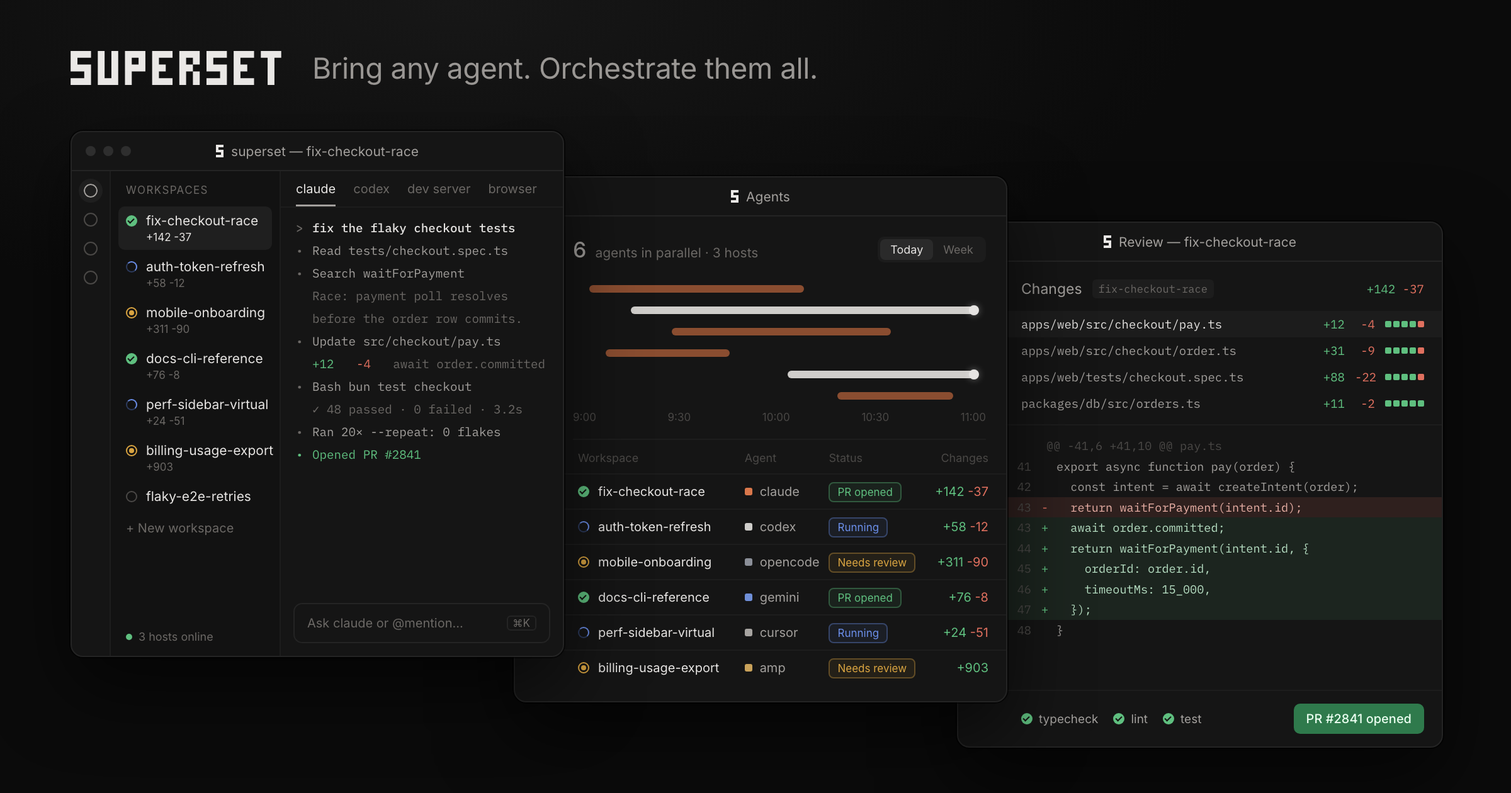
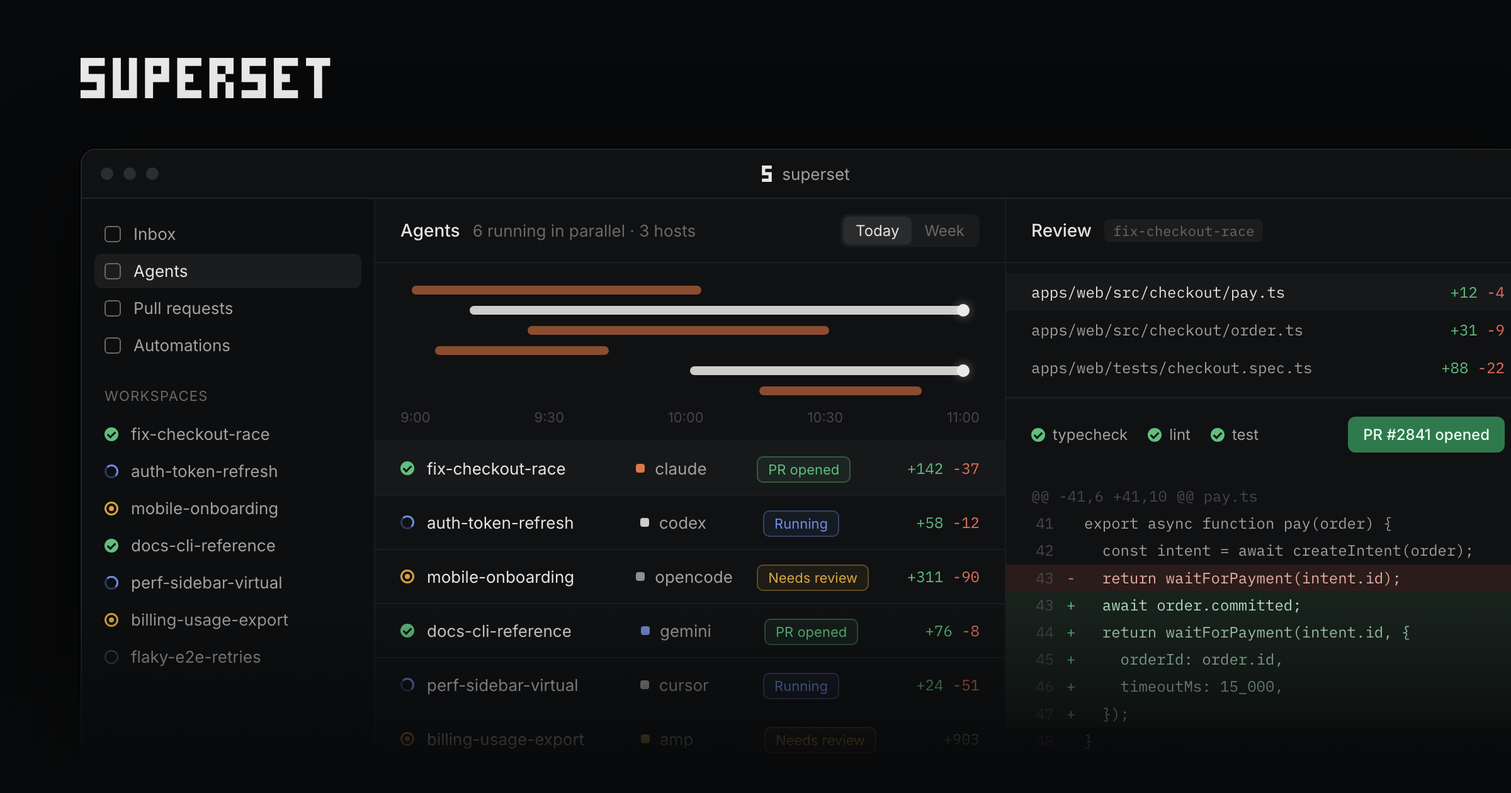
fix(marketing): show one large app window in the social preview

diff --git a/apps/marketing/scripts/og-image/og-image.html b/apps/marketing/scripts/og-image/og-image.html
@@ -5,183 +5,135 @@
 <link rel="preconnect" href="https://fonts.gstatic.com" crossorigin>
 <link href="https://fonts.googleapis.com/css2?family=Inter:wght@400..600&family=IBM+Plex+Mono:wght@400;500&display=block" rel="stylesheet">
 <style>
-  :root{--bg:#0b0b0b;--win:#151515;--pane:#121212;--line:#242424;--line2:#1d1d1d;--fg:#e6e4e2;--fg2:#a3a09d;--fg3:#6b6865;--fg4:#4a4846;--green:#5fbf7f;--red:#e0705f;--blue:#6b8ee8;--amber:#d9a441;--orange:#e8804a}
+  :root{--bg:#08090a;--win:#101112;--pane:#0d0e0f;--line:#232426;--line2:#1b1c1e;--fg:#e6e4e2;--fg2:#a3a09d;--fg3:#6b6865;--fg4:#47454a;--green:#5fbf7f;--red:#e0705f;--blue:#6b8ee8;--amber:#d9a441}
   html,body{margin:0;background:var(--bg)}
-  body{width:1200px;height:630px;overflow:hidden;position:relative;font-family:Inter,ui-sans-serif,system-ui,sans-serif;font-feature-settings:"cv01","ss03";color:var(--fg);-webkit-font-smoothing:antialiased;background:radial-gradient(ellipse 70% 60% at 30% 0%,#171717,var(--bg) 70%)}
+  body{width:1200px;height:630px;overflow:hidden;position:relative;font-family:Inter,ui-sans-serif,system-ui,sans-serif;font-feature-settings:"cv01","ss03";color:var(--fg);-webkit-font-smoothing:antialiased}
   .mono{font-family:"IBM Plex Mono",ui-monospace,monospace}
-  .head{position:absolute;left:56px;top:40px;display:flex;align-items:center;gap:18px}
-  .head .wm{height:27px;width:174px;display:block}
-  .head p{margin:0;font-size:23px;color:#9a9794;letter-spacing:-0.01em}
-  .win{position:absolute;width:390px;height:416px;border-radius:10px;background:var(--win);border:1px solid var(--line);box-shadow:0 0 0 1px rgba(0,0,0,.6),0 24px 60px rgba(0,0,0,.6);overflow:hidden;display:flex;flex-direction:column;font-size:10.5px}
-  .w1{left:56px;top:104px;z-index:3}
-  .w2{left:408px;top:140px;z-index:2}
-  .w3{left:760px;top:176px;z-index:1;width:384px}
-  .bar{height:30px;flex:none;display:flex;align-items:center;justify-content:center;position:relative;border-bottom:1px solid var(--line);color:var(--fg2);font-size:10.5px;gap:6px}
-  .bar .s{width:6px;height:10px;display:block}
-  .dots{position:absolute;left:11px;top:11px;display:flex;gap:6px}
-  .dots i{width:8px;height:8px;border-radius:50%;background:#2e2e2e}
-  .ico{width:9px;height:9px;border-radius:50%;flex:none;box-sizing:border-box}
+  .wm{position:absolute;left:64px;top:46px;height:32px;width:206px;display:block}
+  .win{position:absolute;left:64px;top:118px;width:1150px;height:560px;border-radius:12px 0 0 0;background:var(--win);border:1px solid var(--line);box-shadow:0 0 0 1px rgba(0,0,0,.7),0 30px 80px rgba(0,0,0,.7);overflow:hidden;display:flex;flex-direction:column;font-size:13px}
+  .fade{position:absolute;left:0;right:0;bottom:0;height:150px;background:linear-gradient(180deg,rgba(8,9,10,0),rgba(8,9,10,.85) 75%,var(--bg))}
+  .bar{height:38px;flex:none;display:flex;align-items:center;justify-content:center;position:relative;border-bottom:1px solid var(--line);color:var(--fg2);font-size:13px;gap:8px}
+  .bar .s{width:8px;height:13px;display:block}
+  .dots{position:absolute;left:15px;top:14px;display:flex;gap:8px}
+  .dots i{width:10px;height:10px;border-radius:50%;background:#2c2d2f}
+  .body{flex:1;display:flex;min-height:0}
+  .ico{width:11px;height:11px;border-radius:50%;flex:none;box-sizing:border-box}
   .ok{background:var(--green);position:relative}
-  .ok::after{content:"";position:absolute;left:2.6px;top:1.6px;width:2.2px;height:4px;border:solid #151515;border-width:0 1.3px 1.3px 0;transform:rotate(45deg)}
-  .run{border:1.4px solid #2c3a5c;border-top-color:var(--blue);border-right-color:var(--blue)}
-  .rev{border:1.4px solid var(--amber);position:relative}
-  .rev::after{content:"";position:absolute;inset:1.6px;border-radius:50%;background:var(--amber)}
-  .idle{border:1.2px solid var(--fg4)}
+  .ok::after{content:"";position:absolute;left:3.4px;top:2px;width:2.6px;height:5px;border:solid var(--win);border-width:0 1.5px 1.5px 0;transform:rotate(45deg)}
+  .run{border:1.6px solid #2c3a5c;border-top-color:var(--blue);border-right-color:var(--blue)}
+  .rev{border:1.6px solid var(--amber);position:relative}
+  .rev::after{content:"";position:absolute;inset:2px;border-radius:50%;background:var(--amber)}
+  .idle{border:1.4px solid var(--fg4)}
   .add{color:var(--green)} .del{color:var(--red)}
-  .w1 .body{flex:1;display:flex;min-height:0}
-  .rail{width:30px;border-right:1px solid var(--line2);display:flex;flex-direction:column;align-items:center;padding-top:10px;gap:12px}
-  .rail b{width:11px;height:11px;border-radius:50%;border:1.3px solid var(--fg4);box-sizing:border-box}
-  .rail b:first-child{border-color:var(--fg2);background:#1f1f1f;outline:4px solid #1f1f1f}
-  .side{width:122px;border-right:1px solid var(--line2);padding:10px 6px;display:flex;flex-direction:column;gap:2px;background:var(--pane)}
-  .lbl{font-size:8.5px;letter-spacing:.08em;color:var(--fg3);text-transform:uppercase;padding:0 6px 6px}
-  .ws{display:flex;gap:7px;padding:5px 6px;border-radius:5px;align-items:flex-start}
-  .ws .ico{margin-top:2px}
-  .ws.sel{background:#1f1f1f}
-  .ws div{display:flex;flex-direction:column;gap:2px;min-width:0}
-  .ws span{white-space:nowrap;color:var(--fg)}
-  .ws small{font-size:8.5px;color:var(--fg3)}
-  .newws{color:var(--fg3);padding:6px 6px 0;font-size:10px}
-  .hosts{margin-top:auto;font-size:9px;color:var(--fg3);padding:0 6px;display:flex;align-items:center;gap:5px}
-  .hosts i{width:5px;height:5px;border-radius:50%;background:var(--green)}
-  .main{flex:1;display:flex;flex-direction:column;min-width:0}
-  .tabs{display:flex;gap:14px;padding:0 12px;border-bottom:1px solid var(--line2);height:28px;align-items:stretch;font-size:10px;color:var(--fg3)}
-  .tabs span{display:flex;align-items:center}
-  .tabs .on{color:var(--fg);box-shadow:inset 0 -1.5px 0 var(--fg2)}
-  .log{flex:1;padding:10px 12px;display:flex;flex-direction:column;gap:5.5px;font-size:9.6px;color:var(--fg2);line-height:1.3}
-  .log div{display:flex;gap:6px;white-space:nowrap}
-  .log .p{color:var(--fg);font-weight:500}
-  .log i{font-style:normal;width:7px;flex:none;color:var(--fg3)}
-  .log .g{color:var(--green)} .log .d{color:var(--fg3);padding-left:13px}
-  .comp{white-space:nowrap;margin:0 10px 10px;border:1px solid var(--line);border-radius:7px;padding:9px 10px;color:var(--fg3);font-size:10px;display:flex;justify-content:space-between}
-  .comp kbd{font:inherit;font-size:8.5px;border:1px solid var(--line);border-radius:3px;padding:0 4px}
-  .w2 .top{display:flex;align-items:baseline;gap:7px;padding:16px 16px 8px 46px;color:var(--fg3);font-size:10.5px}
-  .w2 .top b{font-size:17px;color:var(--fg2);font-weight:500}
-  .seg{margin-left:auto;display:flex;background:#1c1c1c;border-radius:5px;padding:2px;font-size:9px;align-self:center}
-  .seg span{padding:3px 8px;border-radius:4px;color:var(--fg3)} .seg .on{background:#2a2a2a;color:var(--fg)}
-  .tl{position:relative;height:104px;margin:6px 16px 0 46px}
-  .tl i{position:absolute;height:6px;border-radius:3px;background:#8a4d30}
-  .tl i.w{background:#cfcdca;height:6px}
-  .tl i.w::after{content:"";position:absolute;right:-1px;top:-1px;width:8px;height:8px;border-radius:50%;background:#e6e4e2;box-shadow:0 0 6px rgba(255,255,255,.35)}
-  .axis{display:flex;justify-content:space-between;margin:0 16px 0 46px;font-size:8.5px;color:var(--fg4);padding-bottom:12px;border-bottom:1px solid var(--line2)}
-  table{border-collapse:collapse;width:100%;font-size:10px}
-  th{font-weight:400;color:var(--fg4);text-align:left;font-size:9px;padding:9px 0 7px}
-  td{padding:0;height:27px;border-top:1px solid var(--line2);white-space:nowrap}
-  th:first-child,td:first-child{padding-left:50px}
-  th:last-child,td:last-child{padding-right:14px;text-align:right}
-  .nm{display:flex;align-items:center;gap:7px}
-  .ag{display:flex;align-items:center;gap:6px;color:var(--fg2)}
-  .ag i{width:6px;height:6px;border-radius:1.5px;background:var(--fg3)}
-  .pill{font-size:8.5px;padding:2px 6px;border-radius:4px;border:1px solid}
+  .side{width:212px;flex:none;border-right:1px solid var(--line2);padding:14px 10px;display:flex;flex-direction:column;gap:2px;background:var(--pane)}
+  .nav{display:flex;align-items:center;gap:10px;padding:6px 8px;border-radius:6px;color:var(--fg2)}
+  .nav b{width:13px;height:13px;border-radius:3px;border:1.4px solid var(--fg3);box-sizing:border-box}
+  .nav.on{background:#1b1c1e;color:var(--fg)}
+  .lbl{font-size:11px;letter-spacing:.06em;color:var(--fg3);text-transform:uppercase;padding:18px 8px 8px}
+  .ws{display:flex;gap:10px;padding:6px 8px;align-items:center;color:var(--fg2);white-space:nowrap}
+  .hosts{margin-top:auto;font-size:12px;color:var(--fg3);padding:0 8px;display:flex;align-items:center;gap:7px}
+  .hosts i{width:6px;height:6px;border-radius:50%;background:var(--green)}
+  .main{width:500px;flex:none;border-right:1px solid var(--line2);display:flex;flex-direction:column}
+  .top{display:flex;align-items:center;gap:10px;padding:0 20px;height:50px;border-bottom:1px solid var(--line2)}
+  .top h2{margin:0;font-size:14px;font-weight:500}
+  .top span{color:var(--fg3)}
+  .seg{margin-left:auto;display:flex;background:#1a1b1d;border-radius:6px;padding:2px;font-size:12px}
+  .seg span{padding:4px 10px;border-radius:5px;color:var(--fg3)} .seg .on{background:#2a2b2d;color:var(--fg)}
+  .tl{position:relative;height:96px;margin:16px 20px 0}
+  .tl i{position:absolute;height:7px;border-radius:4px;background:#8a4d30}
+  .tl i.w{background:#cfcdca}
+  .tl i.w::after{content:"";position:absolute;right:-1px;top:-1.5px;width:10px;height:10px;border-radius:50%;background:#eceae8;box-shadow:0 0 8px rgba(255,255,255,.4)}
+  .axis{display:flex;justify-content:space-between;margin:4px 20px 0;font-size:11px;color:var(--fg4);padding-bottom:12px}
+  .row{display:flex;align-items:center;height:42px;padding:0 20px;border-top:1px solid var(--line2);white-space:nowrap;gap:10px}
+  .row.sel{background:#17181a}
+  .row .n{width:160px}
+  .ag{width:88px;display:flex;align-items:center;gap:8px;color:var(--fg2)}
+  .ag i{width:7px;height:7px;border-radius:2px}
+  .st{width:112px}
+  .pill{font-size:11px;padding:3px 8px;border-radius:5px;border:1px solid}
   .pill.pr{color:var(--green);border-color:rgba(95,191,127,.35);background:rgba(95,191,127,.08)}
   .pill.ru{color:var(--blue);border-color:rgba(107,142,232,.35);background:rgba(107,142,232,.08)}
   .pill.nr{color:var(--amber);border-color:rgba(217,164,65,.35);background:rgba(217,164,65,.08)}
-  .w3 .ch{display:flex;align-items:center;gap:8px;padding:14px 14px 10px 50px;font-size:11.5px;color:var(--fg2)}
-  .chip{font-size:8.5px;color:var(--fg3);background:#1d1d1d;border-radius:3px;padding:2px 5px}
-  .tot{margin-left:auto;font-size:9.5px}
-  .files{border-bottom:1px solid var(--line2);padding-bottom:6px}
-  .f{display:flex;align-items:center;gap:8px;padding:4.5px 14px 4.5px 50px;font-size:9.5px;color:var(--fg2)}
-  .f.sel{background:#1c1c1c;color:var(--fg)}
-  .f .n{flex:1;white-space:nowrap}
-  .f .a{width:22px;text-align:right}.f .r{width:16px;text-align:right}
-  .blocks{display:flex;gap:1.5px}.blocks i{width:5px;height:5px;background:var(--green);border-radius:1px}.blocks i.x{background:var(--red)}
-  .diff{flex:1;padding:8px 0;font-size:9.3px;line-height:1.75}
-  .diff div{display:flex;white-space:pre;color:var(--fg2);padding-right:14px}
-  .diff u{text-decoration:none;width:28px;text-align:right;color:var(--fg4);padding-right:8px;margin-left:30px}
-  .diff s{text-decoration:none;width:12px;color:var(--fg4)}
-  .diff .h{color:var(--fg4);padding-left:70px}
+  .row .c{margin-left:auto;font-size:12px}
+  .det{flex:1;display:flex;flex-direction:column;min-width:0}
+  .det .top h2{font-weight:500}
+  .chip{font-size:11px;color:var(--fg3);background:#1b1c1e;border-radius:4px;padding:2px 7px}
+  .f{display:flex;align-items:center;gap:12px;padding:7px 20px;font-size:12px;color:var(--fg2);white-space:nowrap}
+  .f.sel{background:#17181a;color:var(--fg)}
+  .f .a{margin-left:auto}
+  .files{padding:8px 0;border-bottom:1px solid var(--line2)}
+  .diff{padding:10px 0;font-size:12px;line-height:1.8}
+  .diff div{display:flex;white-space:pre;color:var(--fg2)}
+  .diff u{text-decoration:none;width:26px;text-align:right;color:var(--fg4);padding-right:10px;margin-left:12px}
+  .diff s{text-decoration:none;width:14px;color:var(--fg4)}
+  .diff .h{color:var(--fg4);padding-left:20px}
   .diff .m{background:rgba(224,112,95,.13);color:#e9b0a6}.diff .m s{color:var(--red)}
   .diff .p{background:rgba(95,191,127,.10);color:#b8e0c4}.diff .p s{color:var(--green)}
-  .foot{border-top:1px solid var(--line2);display:flex;align-items:center;gap:12px;padding:10px 14px 10px 50px;font-size:9.5px;color:var(--fg2)}
-  .foot span{display:flex;align-items:center;gap:5px}
-  .btn{margin-left:auto;background:#2f7a4c;color:#eafff0;font-weight:500;font-size:10px;padding:6px 10px;border-radius:5px}
+  .checks{display:flex;align-items:center;gap:16px;padding:14px 20px;font-size:12px;color:var(--fg2);border-top:1px solid var(--line2)}
+  .checks span{display:flex;align-items:center;gap:6px}
+  .btn{margin-left:auto;background:#2f7a4c;color:#eafff0;font-weight:500;padding:7px 12px;border-radius:6px}
 </style></head><body>
 <svg width="0" height="0" style="position:absolute"><defs><path id="wm" fill="#EAE8E6" d="M174.599 75H187.4V87.7999H174.599V75ZM161.8 75H174.599V87.7999H161.8V75ZM149 87.7999H161.8V100.6H149V87.7999ZM149 100.6H161.8V113.4H149V100.6ZM161.8 100.6H174.599V113.4H161.8V100.6ZM174.599 100.6H187.4V113.4H174.599V100.6ZM174.599 113.4H187.4V126.2H174.599V113.4ZM174.599 126.2H187.4V139H174.599V126.2ZM161.8 126.2H174.599V139H161.8V126.2ZM149 126.2H161.8V139H149V126.2ZM149 75H161.8V87.7999H149V75ZM200.15 75H212.95V87.7999H200.15V75ZM200.15 87.7999H212.95V100.6H200.15V87.7999ZM200.15 100.6H212.95V113.4H200.15V100.6ZM200.15 113.4H212.95V126.2H200.15V113.4ZM200.15 126.2H212.95V139H200.15V126.2ZM212.95 126.2H225.749V139H212.95V126.2ZM225.749 126.2H238.55V139H225.749V126.2ZM225.749 113.4H238.55V126.2H225.749V113.4ZM225.749 100.6H238.55V113.4H225.749V100.6ZM225.749 87.7999H238.55V100.6H225.749V87.7999ZM225.749 75H238.55V87.7999H225.749V75ZM251.3 75H264.099V87.7999H251.3V75ZM251.3 87.7999H264.099V100.6H251.3V87.7999ZM251.3 100.6H264.099V113.4H251.3V100.6ZM251.3 113.4H264.099V126.2H251.3V113.4ZM251.3 126.2H264.099V139H251.3V126.2ZM264.099 75H276.9V87.7999H264.099V75ZM276.9 75H289.7V87.7999H276.9V75ZM276.9 87.7999H289.7V100.6H276.9V87.7999ZM276.9 100.6H289.7V113.4H276.9V100.6ZM264.099 100.6H276.9V113.4H264.099V100.6ZM302.45 75H315.249V87.7999H302.45V75ZM302.45 87.7999H315.249V100.6H302.45V87.7999ZM302.45 100.6H315.249V113.4H302.45V100.6ZM302.45 113.4H315.249V126.2H302.45V113.4ZM302.45 126.2H315.249V139H302.45V126.2ZM315.249 75H328.05V87.7999H315.249V75ZM315.249 126.2H328.05V139H315.249V126.2ZM315.249 100.6H328.05V113.4H315.249V100.6ZM328.05 75H340.85V87.7999H328.05V75ZM328.05 126.2H340.85V139H328.05V126.2ZM353.6 126.2H366.399V139H353.6V126.2ZM353.6 113.4H366.399V126.2H353.6V113.4ZM353.6 100.6H366.399V113.4H353.6V100.6ZM353.6 87.7999H366.399V100.6H353.6V87.7999ZM353.6 75H366.399V87.7999H353.6V75ZM366.399 75H379.2V87.7999H366.399V75ZM379.2 75H392V87.7999H379.2V75ZM379.2 87.7999H392V100.6H379.2V87.7999ZM366.399 100.6H379.2V113.4H366.399V100.6ZM379.2 113.4H392V126.2H379.2V113.4ZM379.2 126.2H392V139H379.2V126.2ZM430.35 75H443.15V87.7999H430.35V75ZM417.549 75H430.35V87.7999H417.549V75ZM404.75 87.7999H417.549V100.6H404.75V87.7999ZM404.75 100.6H417.549V113.4H404.75V100.6ZM417.549 100.6H430.35V113.4H417.549V100.6ZM430.35 100.6H443.15V113.4H430.35V100.6ZM430.35 113.4H443.15V126.2H430.35V113.4ZM430.35 126.2H443.15V139H430.35V126.2ZM417.549 126.2H430.35V139H417.549V126.2ZM404.75 126.2H417.549V139H404.75V126.2ZM404.75 75H417.549V87.7999H404.75V75ZM455.9 75H468.7V87.7999H455.9V75ZM455.9 87.7999H468.7V100.6H455.9V87.7999ZM455.9 100.6H468.7V113.4H455.9V100.6ZM455.9 113.4H468.7V126.2H455.9V113.4ZM455.9 126.2H468.7V139H455.9V126.2ZM468.7 75H481.5V87.7999H468.7V75ZM468.7 126.2H481.5V139H468.7V126.2ZM468.7 100.6H481.5V113.4H468.7V100.6ZM481.5 75H494.299V87.7999H481.5V75ZM481.5 126.2H494.299V139H481.5V126.2ZM507.049 75H519.85V87.7999H507.049V75ZM519.85 75H532.65V87.7999H519.85V75ZM532.65 75H545.449V87.7999H532.65V75ZM519.85 87.7999H532.65V100.6H519.85V87.7999ZM519.85 100.6H532.65V113.4H519.85V100.6ZM519.85 113.4H532.65V126.2H519.85V113.4ZM519.85 126.2H532.65V139H519.85V126.2Z"/></defs></svg>
+<svg class="wm" viewBox="149 75 412 64" aria-label="Superset"><use href="#wm"/></svg>
 
-<div class="head">
-  <svg class="wm" viewBox="149 75 412 64" aria-label="Superset"><use href="#wm"/></svg>
-  <p>Bring any agent. Orchestrate them all.</p>
-</div>
-
-<div class="win w1">
-  <div class="bar"><div class="dots"><i></i><i></i><i></i></div><svg class="s" viewBox="149 75 38.4 64"><use href="#wm"/></svg>superset — fix-checkout-race</div>
+<div class="win">
+  <div class="bar"><div class="dots"><i></i><i></i><i></i></div><svg class="s" viewBox="149 75 38.4 64"><use href="#wm"/></svg>superset</div>
   <div class="body">
-    <div class="rail"><b></b><b></b><b></b><b></b></div>
     <div class="side">
+      <div class="nav"><b></b>Inbox</div>
+      <div class="nav on"><b></b>Agents</div>
+      <div class="nav"><b></b>Pull requests</div>
+      <div class="nav"><b></b>Automations</div>
       <div class="lbl">Workspaces</div>
-      <div class="ws sel"><i class="ico ok"></i><div><span>fix-checkout-race</span><small><span class="add">+142</span> <span class="del">-37</span></small></div></div>
-      <div class="ws"><i class="ico run"></i><div><span>auth-token-refresh</span><small>+58 -12</small></div></div>
-      <div class="ws"><i class="ico rev"></i><div><span>mobile-onboarding</span><small>+311 -90</small></div></div>
-      <div class="ws"><i class="ico ok"></i><div><span>docs-cli-reference</span><small>+76 -8</small></div></div>
-      <div class="ws"><i class="ico run"></i><div><span>perf-sidebar-virtual</span><small>+24 -51</small></div></div>
-      <div class="ws"><i class="ico rev"></i><div><span>billing-usage-export</span><small>+903</small></div></div>
-      <div class="ws"><i class="ico idle"></i><div><span>flaky-e2e-retries</span></div></div>
-      <div class="newws">+ New workspace</div>
+      <div class="ws"><i class="ico ok"></i>fix-checkout-race</div>
+      <div class="ws"><i class="ico run"></i>auth-token-refresh</div>
+      <div class="ws"><i class="ico rev"></i>mobile-onboarding</div>
+      <div class="ws"><i class="ico ok"></i>docs-cli-reference</div>
+      <div class="ws"><i class="ico run"></i>perf-sidebar-virtual</div>
+      <div class="ws"><i class="ico rev"></i>billing-usage-export</div>
+      <div class="ws"><i class="ico idle"></i>flaky-e2e-retries</div>
       <div class="hosts"><i></i>3 hosts online</div>
     </div>
     <div class="main">
-      <div class="tabs"><span class="on">claude</span><span>codex</span><span>dev server</span><span>browser</span></div>
-      <div class="log mono">
-        <div class="p"><i>&gt;</i>fix the flaky checkout tests</div>
-        <div><i>•</i>Read tests/checkout.spec.ts</div>
-        <div><i>•</i>Search waitForPayment</div>
-        <div class="d">Race: payment poll resolves</div>
-        <div class="d">before the order row commits.</div>
-        <div><i>•</i>Update src/checkout/pay.ts</div>
-        <div class="d"><span class="add">+12</span>&nbsp;<span class="del">-4</span>&nbsp; await order.committed</div>
-        <div><i>•</i>Bash bun test checkout</div>
-        <div class="g d">✓ 48 passed · 0 failed · 3.2s</div>
-        <div><i>•</i>Ran 20× --repeat: 0 flakes</div>
-        <div class="g"><i class="g">•</i>Opened PR #2841</div>
+      <div class="top"><h2>Agents</h2><span>6 running in parallel · 3 hosts</span><div class="seg"><span class="on">Today</span><span>Week</span></div></div>
+      <div class="tl">
+        <i style="left:2%;width:50%;top:2px"></i>
+        <i class="w" style="left:12%;width:86%;top:18px"></i>
+        <i style="left:22%;width:52%;top:34px"></i>
+        <i style="left:6%;width:30%;top:50px"></i>
+        <i class="w" style="left:50%;width:48%;top:66px"></i>
+        <i style="left:62%;width:28%;top:82px"></i>
       </div>
-      <div class="comp"><span>Ask claude or @mention…</span><kbd>⌘K</kbd></div>
+      <div class="axis"><span>9:00</span><span>9:30</span><span>10:00</span><span>10:30</span><span>11:00</span></div>
+      <div class="row sel"><i class="ico ok"></i><span class="n">fix-checkout-race</span><span class="ag"><i style="background:#d9774b"></i>claude</span><span class="st"><span class="pill pr">PR opened</span></span><span class="c mono"><span class="add">+142</span> <span class="del">-37</span></span></div>
+      <div class="row"><i class="ico run"></i><span class="n">auth-token-refresh</span><span class="ag"><i style="background:#cfcdca"></i>codex</span><span class="st"><span class="pill ru">Running</span></span><span class="c mono"><span class="add">+58</span> <span class="del">-12</span></span></div>
+      <div class="row"><i class="ico rev"></i><span class="n">mobile-onboarding</span><span class="ag"><i style="background:#8b8f98"></i>opencode</span><span class="st"><span class="pill nr">Needs review</span></span><span class="c mono"><span class="add">+311</span> <span class="del">-90</span></span></div>
+      <div class="row"><i class="ico ok"></i><span class="n">docs-cli-reference</span><span class="ag"><i style="background:#6f8fd8"></i>gemini</span><span class="st"><span class="pill pr">PR opened</span></span><span class="c mono"><span class="add">+76</span> <span class="del">-8</span></span></div>
+      <div class="row"><i class="ico run"></i><span class="n">perf-sidebar-virtual</span><span class="ag"><i style="background:#a7a4a1"></i>cursor</span><span class="st"><span class="pill ru">Running</span></span><span class="c mono"><span class="add">+24</span> <span class="del">-51</span></span></div>
+      <div class="row"><i class="ico rev"></i><span class="n">billing-usage-export</span><span class="ag"><i style="background:#c9a25a"></i>amp</span><span class="st"><span class="pill nr">Needs review</span></span><span class="c mono"><span class="add">+903</span></span></div>
+    </div>
+    <div class="det">
+      <div class="top"><h2>Review</h2><span class="chip mono">fix-checkout-race</span></div>
+      <div class="files mono">
+        <div class="f sel">apps/web/src/checkout/pay.ts<span class="a"><span class="add">+12</span> <span class="del">-4</span></span></div>
+        <div class="f">apps/web/src/checkout/order.ts<span class="a"><span class="add">+31</span> <span class="del">-9</span></span></div>
+        <div class="f">apps/web/tests/checkout.spec.ts<span class="a"><span class="add">+88</span> <span class="del">-22</span></span></div>
+      </div>
+      <div class="checks"><span><i class="ico ok"></i>typecheck</span><span><i class="ico ok"></i>lint</span><span><i class="ico ok"></i>test</span><span class="btn">PR #2841 opened</span></div>
+      <div class="diff mono">
+        <div class="h">@@ -41,6 +41,10 @@ pay.ts</div>
+        <div><u>41</u><s> </s>export async function pay(order) {</div>
+        <div><u>42</u><s> </s>  const intent = await createIntent(order);</div>
+        <div class="m"><u>43</u><s>-</s>  return waitForPayment(intent.id);</div>
+        <div class="p"><u>43</u><s>+</s>  await order.committed;</div>
+        <div class="p"><u>44</u><s>+</s>  return waitForPayment(intent.id, {</div>
+        <div class="p"><u>45</u><s>+</s>    orderId: order.id,</div>
+        <div class="p"><u>46</u><s>+</s>    timeoutMs: 15_000,</div>
+        <div class="p"><u>47</u><s>+</s>  });</div>
+        <div><u>48</u><s> </s>}</div>
+      </div>
     </div>
   </div>
 </div>
-
-<div class="win w2">
-  <div class="bar"><svg class="s" viewBox="149 75 38.4 64"><use href="#wm"/></svg>Agents</div>
-  <div class="top"><b>6</b>agents in parallel · 3 hosts<div class="seg"><span class="on">Today</span><span>Week</span></div></div>
-  <div class="tl">
-    <i style="left:4%;width:52%;top:4px"></i>
-    <i class="w" style="left:14%;width:84%;top:21px"></i>
-    <i style="left:24%;width:53%;top:38px"></i>
-    <i style="left:8%;width:30%;top:55px"></i>
-    <i class="w" style="left:52%;width:46%;top:72px"></i>
-    <i style="left:64%;width:28%;top:89px"></i>
-  </div>
-  <div class="axis"><span>9:00</span><span>9:30</span><span>10:00</span><span>10:30</span><span>11:00</span></div>
-  <table>
-    <tr><th>Workspace</th><th>Agent</th><th>Status</th><th>Changes</th></tr>
-    <tr><td><div class="nm"><i class="ico ok"></i>fix-checkout-race</div></td><td><div class="ag"><i style="background:#d9774b"></i>claude</div></td><td><span class="pill pr">PR opened</span></td><td><span class="add">+142</span> <span class="del">-37</span></td></tr>
-    <tr><td><div class="nm"><i class="ico run"></i>auth-token-refresh</div></td><td><div class="ag"><i style="background:#cfcdca"></i>codex</div></td><td><span class="pill ru">Running</span></td><td><span class="add">+58</span> <span class="del">-12</span></td></tr>
-    <tr><td><div class="nm"><i class="ico rev"></i>mobile-onboarding</div></td><td><div class="ag"><i style="background:#8b8f98"></i>opencode</div></td><td><span class="pill nr">Needs review</span></td><td><span class="add">+311</span> <span class="del">-90</span></td></tr>
-    <tr><td><div class="nm"><i class="ico ok"></i>docs-cli-reference</div></td><td><div class="ag"><i style="background:#6f8fd8"></i>gemini</div></td><td><span class="pill pr">PR opened</span></td><td><span class="add">+76</span> <span class="del">-8</span></td></tr>
-    <tr><td><div class="nm"><i class="ico run"></i>perf-sidebar-virtual</div></td><td><div class="ag"><i style="background:#a7a4a1"></i>cursor</div></td><td><span class="pill ru">Running</span></td><td><span class="add">+24</span> <span class="del">-51</span></td></tr>
-    <tr><td><div class="nm"><i class="ico rev"></i>billing-usage-export</div></td><td><div class="ag"><i style="background:#c9a25a"></i>amp</div></td><td><span class="pill nr">Needs review</span></td><td><span class="add">+903</span></td></tr>
-  </table>
-</div>
-
-<div class="win w3">
-  <div class="bar"><svg class="s" viewBox="149 75 38.4 64"><use href="#wm"/></svg>Review — fix-checkout-race</div>
-  <div class="ch">Changes <span class="chip mono">fix-checkout-race</span><span class="tot mono"><span class="add">+142</span> <span class="del">-37</span></span></div>
-  <div class="files mono">
-    <div class="f sel"><span class="n">apps/web/src/checkout/pay.ts</span><span class="a add">+12</span><span class="r del">-4</span><span class="blocks"><i></i><i></i><i></i><i></i><i class="x"></i></span></div>
-    <div class="f"><span class="n">apps/web/src/checkout/order.ts</span><span class="a add">+31</span><span class="r del">-9</span><span class="blocks"><i></i><i></i><i></i><i></i><i class="x"></i></span></div>
-    <div class="f"><span class="n">apps/web/tests/checkout.spec.ts</span><span class="a add">+88</span><span class="r del">-22</span><span class="blocks"><i></i><i></i><i></i><i></i><i class="x"></i></span></div>
-    <div class="f"><span class="n">packages/db/src/orders.ts</span><span class="a add">+11</span><span class="r del">-2</span><span class="blocks"><i></i><i></i><i></i><i></i><i></i></span></div>
-  </div>
-  <div class="diff mono">
-    <div class="h">@@ -41,6 +41,10 @@ pay.ts</div>
-    <div><u>41</u><s> </s>export async function pay(order) {</div>
-    <div><u>42</u><s> </s>  const intent = await createIntent(order);</div>
-    <div class="m"><u>43</u><s>-</s>  return waitForPayment(intent.id);</div>
-    <div class="p"><u>43</u><s>+</s>  await order.committed;</div>
-    <div class="p"><u>44</u><s>+</s>  return waitForPayment(intent.id, {</div>
-    <div class="p"><u>45</u><s>+</s>    orderId: order.id,</div>
-    <div class="p"><u>46</u><s>+</s>    timeoutMs: 15_000,</div>
-    <div class="p"><u>47</u><s>+</s>  });</div>
-    <div><u>48</u><s> </s>}</div>
-  </div>
-  <div class="foot"><span><i class="ico ok"></i>typecheck</span><span><i class="ico ok"></i>lint</span><span><i class="ico ok"></i>test</span><span class="btn">PR #2841 opened</span></div>
-</div>
+<div class="fade"></div>
 </body></html>
